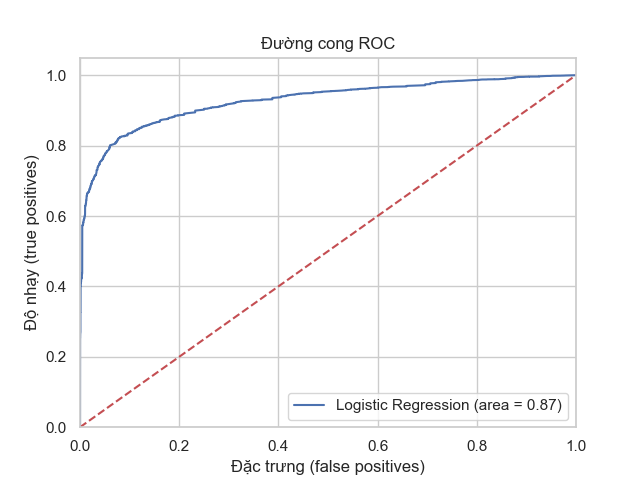
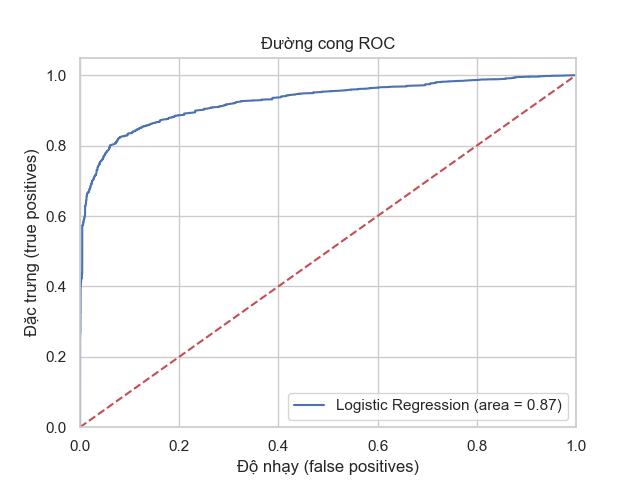
update

Changed region(s): [[0.3438, 0.9375, 0.6562, 1.0], [0.0312, 0.3125, 0.0625, 0.7188]]

diff --git a/51800590_51800574_51800691.tex b/51800590_51800574_51800691.tex
@@ -808,7 +808,7 @@ Ngoài ra, trong đồ án còn sử dụng một số nhận xét, đánh giá 
             \begin{enumerate}
                 \item [- ] Đường cong ROC dùng để đánh giá các kết quả của một dự đoán.
                 \item [- ] Ta thấy đường cong càng đi dọc theo biên trái và đi dọc biên phía trên của không gian ROC, kết quả kiểm tra càng chính xác.
-                \item [- ] Đường cong tiến xa xo với đường chéo 45 độ trong không gian ROC, độ chính xác của thuật toán trên càng chính xác.
+                \item [- ] Đường cong tiến xa so với đường chéo 45 độ trong không gian ROC, độ chính xác của thuật toán trên càng chính xác.
                 \item [- ] Độ chính xác của thuật toán đạt 87\%, đây là một ngưỡng khá cao.
             \end{enumerate}
             
@@ -884,7 +884,7 @@ Ngoài ra, trong đồ án còn sử dụng một số nhận xét, đánh giá 
             
             \begin{enumerate}
                 \item [- ] Perceptron đa tầng (MLP): tập hợp của các perceptron chia làm nhiều nhóm, mỗi nhóm tương ứng với một layer. Trong hình trên có một MLP gồm 3 lớp: input layer, hidden layer, output layer.
-                \item [- ] Số lượng layer trong một MLP được tính bằng số hidden layers cộng với 1. Tức là khi đếm số layers của một MLP, không tính input layers. Số lượng layer trong một MLP thường được ký hiệu là L. Trong hình trên L = 3.
+                \item [- ] Số lượng layer trong một MLP được tính bằng số hidden layers cộng với 1. Tức là khi đếm số layers của một MLP, không tính input layers. Số lượng layer trong một MLP thường được ký hiệu là L. Trong hình trên L = 2.
                 \item [- ] Mỗi vòng tròn là một node, node trong hidden layer và output layer:
                     \begin{itemize}
                         \item Được liên kết với tất cả các node ở layer trước đó với các trọng số Weight (W) riêng biệt.

diff --git a/DEMO/LR.py b/DEMO/LR.py
@@ -155,8 +155,8 @@ def probabilityChart(X_test,y_test,X_train,y_train):
 	plt.plot([0, 1], [0, 1],'r--')
 	plt.xlim([0.0, 1.0])
 	plt.ylim([0.0, 1.05])
-	plt.xlabel('Đặc trưng (false positives)')
-	plt.ylabel('Độ nhạy (true positives)')
+	plt.xlabel('Độ nhạy (false positives)')
+	plt.ylabel('Đặc trưng (true positives)')
 	plt.title('Đường cong ROC')
 	plt.legend(loc="lower right")
 	plt.savefig('probabilityChart')
